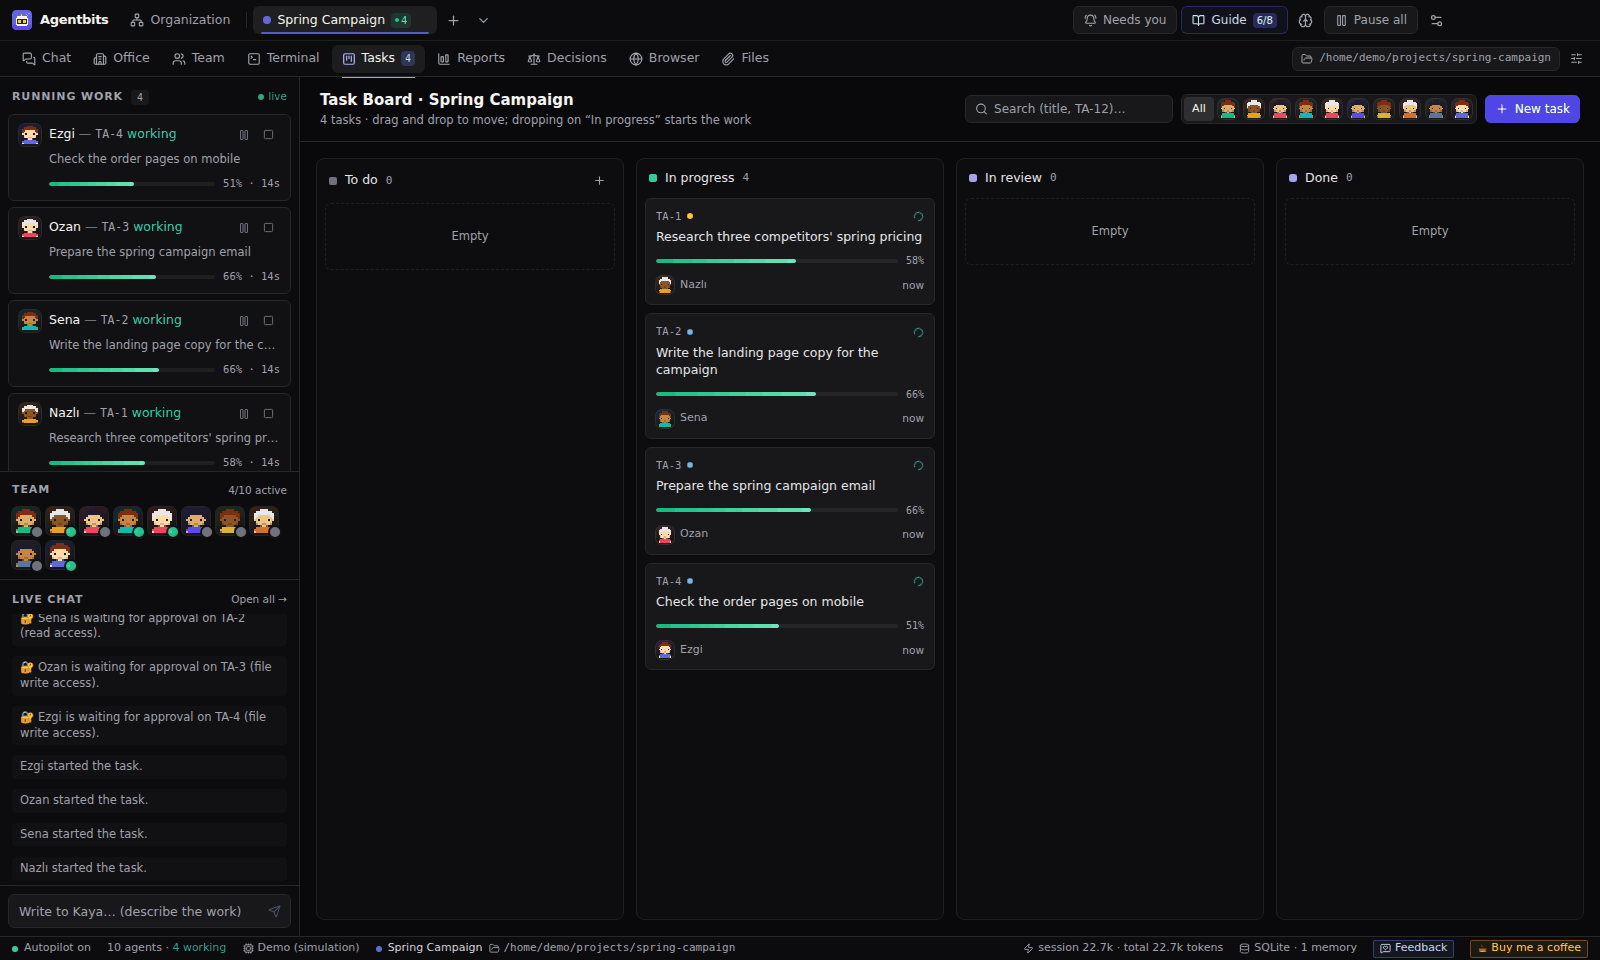
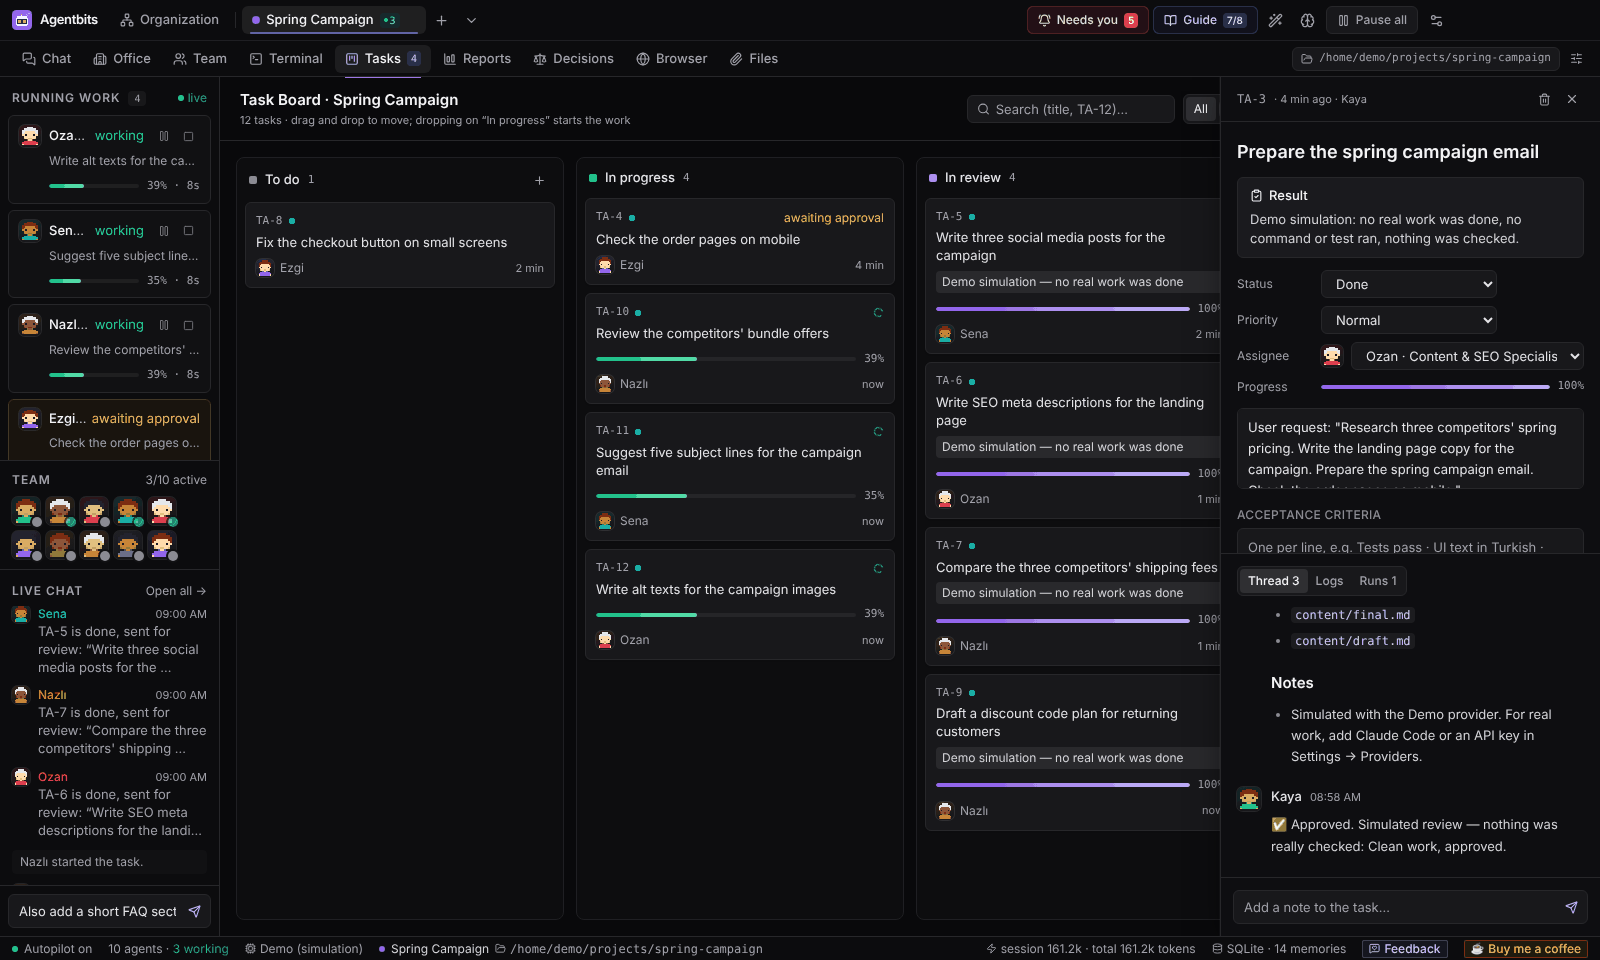
Screenshots retaken with v0.8.0 (EN + TR); README captions match them

diff --git a/CLAUDE.md b/CLAUDE.md
@@ -113,7 +113,7 @@ Demo sağlayıcı iş türüne göre simülasyon (`shared/demoKind.ts`), paket s
 - **2026-10-19 Paket 2 (dürüst Demo + ilk işe yol; sürüm artırılmadı, commit yok)**: Demo hiçbir araç çağırmaz (sahibin kararı; yeni ayar yok), rapor / log / lider notu / kart / ayrıntı çalışma ve incelemeyi ayrı etiketler (`state.simulatedWork` / `simulatedReview`), kısa iş emri görevdir (`demoIsWork`), bölme `demoParts` (dosya adı / sürüm / URL bölünmez); şablon proje içinden açılınca işaretli "Bu projeye ekle" (`templates:instantiate` `projectId`, store `templateFor`), sohbet boş durumu `team / empty / off`, sağlayıcı formunda "Demo ile dene". Test `tests/e2e/firstRun.e2e.ts` (7 adım, 4 çalışan/lider kombinasyonu dahil). Site Demo metni düzeltildi, yayınlanmadı. Sahip onayladı.
 - **2026-10-19 Paket 3 (günlük kullanım; sürüm artırılmadı, commit yok)**: kalıcı taslak (migration v22 `message_drafts`, `lib/drafts.ts`, `useAttachments(pid, channel)` taslak modu — ekler kanala ait, çıkınca silinmez, silinen ek "artık yok"), `useStickToBottom` + "Yeni mesajlar" (sohbet, görev akışı, sol panel), görev düzenleme / not / hızlı mesaj hataları görünür, onay bekleyen iş üç ekranda "henüz başlamadı". Test `tests/e2e/drafts.e2e.ts` + UI düzeneği. Sahibin incelemesindeki 3 yarış düzeltildi (gönderim `draftSnapshot`/`clearSent` ile başladığı anahtar + sürüme bağlı; `att.clear()` kaldırıldı; açılış listesi birleştirilir) + test sırasında bulunan "ilk açılışta ek silme"; tekrar kontrolde 2 kayıp daha (ABA sürüm, yükleme öncesi kör ek listesi) kapandı, testler depoda (`npm run test:renderer`, `tests/renderer/`). Sahip onayladı.
 - **2026-10-19 Paket 4 (sonuç ve doğrulama; sürüm artırılmadı, commit yok)**: `core/evidence.ts` (araç kaydından komut ✓/✗/?, yazılan dosya, retler; yalnız Claude Code kayıt verir, diğerleri "bilinmiyor"), lider istemine kanıt bölümü + sınırlı diff, `tasks:result` + görev ayrıntısında "Sonuç" kutusu, yarış istemine B'nin düzenlenmiş girdileri (§8 kapandı). Test `tests/e2e/result.e2e.ts`. Sahibin incelemesi (3 bulgu) kapandı: yazma sonucuyla eşleşir, kanıt tüm kayıttan + tam sayım + korunan hatalar, yarışta B'nin incelemesi asıl görevdeki tek kayıttan; tekrar kontrolde dosya başına yazıldı/son deneme ayrımı ve listeden bağımsız sayımlar. Sahip onayladı (ifade: "Dosya araçlarıyla başarılı yazma kaydı yok").
-- **2026-10-19 Paket 5A (erişilebilirlik + dar pencere; sürüm artırılmadı, commit yok)**: `components/common/Layer.ts` (katman yığını, Escape en üstte, odak dönüşü, odak tuzağı) → Modal / Ayarlar / açılır menüler; `:focus-visible`; `Sidebar` `useFolded` + `Rail` (içerik < 988 px → ikon şeridi, panel içeriğin üstünde); pano sütunları ≥ 230 px (üst üste binme düzeldi); `dedupeFeed`, `shownStatus`; zinc-600/700 → 500. Test `tests/renderer/feed.test.ts` + UI düzeneği. 2026-10-20 ek: Kılavuz pano yanında sığmıyorsa üstte diyalog (`lib/layout.ts` `fitLayout`, `tests/renderer/layout.test.ts`); 960 CSS px altında üst çubuk yalnız ikon; `zinc-500` = `#8b8b93` (tailwind.config), alan odak / hata kenarları ≥ 3:1; ölçülü kontrast denetimi 21 ekran TR/EN 0 hata. Tip ölçeği 10/11/12/13/15/18/22 işlevine göre (kural ARCHITECTURE "Tip ölçeği", test `typeScale.test.ts`); örtüşme denetimi TR/EN 4 boyut temiz. ⏳ %200 proje sekmesi Windows'ta; Electron / ekran okuyucu elle denenmedi — 5A tamamen doğrulanmış değil. İnceleme düzeltmeleri (2026-10-20): canlı akış yalnız `meta.event` ile birleştirir (`sameEvent`), katman yığını z-index sırası (`openLayer`), adsız ikon düğmeleri; testler `feed`/`layer`. **5B (2026-10-20) sistem bildirimleri:** tek giriş `main/notify.ts` `notifyUser` (yeni olay kaynağı → oradan; `hold()` üçüncü parametresi zorunlu: kullanıcı kaynaklıysa `null`), zamanlama `shared/notify.ts`, tıklama `lib/notifyNav.ts`; testler `notify.test.ts`, `e2e/notify.e2e.ts`, `renderer/notifyNav.test.ts`. ⏳ gerçek Windows denemesi (liste: CHANGELOG 5B "Bilinen / açık"). Kararlar `docs/UX_REVIEW_2026-10-19.md` §8'de. **Paket 1A–5B v0.8.0 olarak yayımlandı (2026-10-20, etiket e930146; site 4c39bb3).** ⏳ Ekran görüntüleri v0.4.0'dan (README notunda yazılı, yeniden çekilecek).
+- **2026-10-19 Paket 5A (erişilebilirlik + dar pencere; sürüm artırılmadı, commit yok)**: `components/common/Layer.ts` (katman yığını, Escape en üstte, odak dönüşü, odak tuzağı) → Modal / Ayarlar / açılır menüler; `:focus-visible`; `Sidebar` `useFolded` + `Rail` (içerik < 988 px → ikon şeridi, panel içeriğin üstünde); pano sütunları ≥ 230 px (üst üste binme düzeldi); `dedupeFeed`, `shownStatus`; zinc-600/700 → 500. Test `tests/renderer/feed.test.ts` + UI düzeneği. 2026-10-20 ek: Kılavuz pano yanında sığmıyorsa üstte diyalog (`lib/layout.ts` `fitLayout`, `tests/renderer/layout.test.ts`); 960 CSS px altında üst çubuk yalnız ikon; `zinc-500` = `#8b8b93` (tailwind.config), alan odak / hata kenarları ≥ 3:1; ölçülü kontrast denetimi 21 ekran TR/EN 0 hata. Tip ölçeği 10/11/12/13/15/18/22 işlevine göre (kural ARCHITECTURE "Tip ölçeği", test `typeScale.test.ts`); örtüşme denetimi TR/EN 4 boyut temiz. ⏳ %200 proje sekmesi Windows'ta; Electron / ekran okuyucu elle denenmedi — 5A tamamen doğrulanmış değil. İnceleme düzeltmeleri (2026-10-20): canlı akış yalnız `meta.event` ile birleştirir (`sameEvent`), katman yığını z-index sırası (`openLayer`), adsız ikon düğmeleri; testler `feed`/`layer`. **5B (2026-10-20) sistem bildirimleri:** tek giriş `main/notify.ts` `notifyUser` (yeni olay kaynağı → oradan; `hold()` üçüncü parametresi zorunlu: kullanıcı kaynaklıysa `null`), zamanlama `shared/notify.ts`, tıklama `lib/notifyNav.ts`; testler `notify.test.ts`, `e2e/notify.e2e.ts`, `renderer/notifyNav.test.ts`. ⏳ gerçek Windows denemesi (liste: CHANGELOG 5B "Bilinen / açık"). Kararlar `docs/UX_REVIEW_2026-10-19.md` §8'de. **Paket 1A–5B v0.8.0 olarak yayımlandı (2026-10-20, etiket e930146; site 4c39bb3).** Ekran görüntüleri v0.8.0 ile yeniden çekildi (2026-10-20, Demo).
 - **2026-10-19 ürün deneyimi incelemesi** → `docs/UX_REVIEW_2026-10-19.md` (kod değişmedi). ⏳ Sahip ilk çalışma paketini (şablon → proje ataması, sohbet boş durumu, CLI yoksa Demo, koşullu kaydırma, inceleme hatası görünür) onaylayınca geliştirme başlar.
 - `docs/SECURITY.md`'deki 🟡 / ⏳ maddeler (ör. büyük veride UI sayfalama) ve `docs/FEATURES.md` "Bilinen sorunlar".
 

diff --git a/README.tr.md b/README.tr.md
@@ -144,13 +144,13 @@ senaryonun neye ihtiyaç duyduğunu söyler.
 
 | | |
 |---|---|
-| **Liderle sohbet.** İstek dört göreve ayrılır, her biri bir uzmana atanır. <br><img src="docs/screenshots/tr/chat.png" alt="Proje sohbeti: lider isteği dört göreve böler"> | **Görev panosu.** Ekip çalıştıkça görevler Yapılacak'tan Bitti'ye ilerler. <br><img src="docs/screenshots/tr/tasks.png" alt="Devam eden görevlerin olduğu Kanban panosu"> |
-| **Ajan terminalleri.** Her ajana ne sorulduğu ve ne yaptığı. <br><img src="docs/screenshots/tr/terminal.png" alt="Birkaç ajanın dökümünü gösteren ajan terminalleri"> | **Organizasyon.** Şirket, departman ve takımlar; her birinin lideri var. <br><img src="docs/screenshots/tr/org-chart.png" alt="Beş takımlı bir e-ticaret şirketinin organizasyon şeması"> |
+| **Liderle sohbet.** İstek dört göreve ayrılır, her biri bir uzmana atanır. <br><img src="docs/screenshots/tr/chat.png" alt="Proje sohbeti: lider isteği dört göreve böler"> | **Görev panosu.** Ekip çalıştıkça görevler Yapılacak'tan Bitti'ye ilerler. <br><img src="docs/screenshots/tr/tasks.png" alt="Görev panosu: devam eden (biri onay bekliyor) ve incelemedeki işler; biten bir görevin ayrıntısı ve Sonuç kutusu açık"> |
+| **Ajan terminalleri.** Her ajana ne sorulduğu ve ne yaptığı. <br><img src="docs/screenshots/tr/terminal.png" alt="Birkaç ajanın dökümünü gösteren ajan terminalleri (simüle edilmiş adımlar)"> | **Organizasyon.** Şirket, departman ve takımlar; her birinin lideri var. <br><img src="docs/screenshots/tr/org-chart.png" alt="Beş takımlı bir e-ticaret şirketinin organizasyon şeması"> |
 | **Raporlar.** Tamamlanan işler, başarı oranı, ajan başına üretim ve token kullanımı. <br><img src="docs/screenshots/tr/reports.png" alt="Görev raporları ve ajan performansıyla Raporlar sayfası"> | **Bağlantılar.** Zorunlu salt-okunur kullanıcıyla, ajan bazında veritabanı ve sunucu erişimi. <br><img src="docs/screenshots/tr/connections.png" alt="Staging PostgreSQL veritabanı için bağlantı ayarları"> |
-| **Hafıza.** "Seni tanıyorum" profili ve hatıraların konulara, görevlere ve kararlara bağlandığı graf. <br><img src="docs/screenshots/tr/memory.png" alt="Organizasyon → Hafıza: solda profil, sağda hafıza grafı"> | |
+| **Hafıza.** "Seni tanıyorum" profili ve hatıraları görevlere ve ajanlara bağlayan graf. <br><img src="docs/screenshots/tr/memory.png" alt="Organizasyon → Hafıza: solda profil, sağda hafıza grafı"> | |
 
-*Ekran görüntüleri Demo modunda (v0.4.0) örnek verilerle alındı. Demo işi yalnızca taklit eder, hiçbir araç
-çağırmaz; v0.8.0'dan beri taklit edilen her adım "simülasyon" diye etiketlenir.*
+*Ekran görüntüleri Demo modunda (v0.8.0) örnek verilerle alındı. Demo işi yalnızca taklit eder, hiçbir araç
+çağırmaz; taklit edilen her adım "simülasyon" diye etiketlenir.*
 
 ## Desteklenen yapay zeka sağlayıcıları
 

diff --git a/README.md b/README.md
@@ -142,13 +142,13 @@ scenario needs.
 
 | | |
 |---|---|
-| **Chat with the lead.** The request becomes four tasks, each assigned to a specialist. <br><img src="docs/screenshots/chat.png" alt="Project chat: the lead splits a request into four tasks"> | **Task board.** Tasks move from To do to Done as the team works. <br><img src="docs/screenshots/tasks.png" alt="Kanban board with four tasks in progress"> |
-| **Agent terminals.** What each agent was asked and what it did. <br><img src="docs/screenshots/terminal.png" alt="Agent terminals showing transcripts of several agents"> | **Organization.** Companies, departments and teams, each with a lead. <br><img src="docs/screenshots/org-chart.png" alt="Organization chart of an e-commerce company with five teams"> |
+| **Chat with the lead.** The request becomes four tasks, each assigned to a specialist. <br><img src="docs/screenshots/chat.png" alt="Project chat: the lead splits a request into four tasks"> | **Task board.** Tasks move from To do to Done as the team works. <br><img src="docs/screenshots/tasks.png" alt="Task board: work in progress (one task awaiting approval) and in review, with a finished task's details and its Result box open"> |
+| **Agent terminals.** What each agent was asked and what it did. <br><img src="docs/screenshots/terminal.png" alt="Agent terminals showing transcripts of several agents (simulated steps)"> | **Organization.** Companies, departments and teams, each with a lead. <br><img src="docs/screenshots/org-chart.png" alt="Organization chart of an e-commerce company with five teams"> |
 | **Reports.** Completed work, success rate, per-agent output and token usage. <br><img src="docs/screenshots/reports.png" alt="Reports page with task reports and agent performance"> | **Connections.** Per-agent database and server access with a required read-only user. <br><img src="docs/screenshots/connections.png" alt="Connection settings for a staging PostgreSQL database"> |
-| **Memory.** The "Knows you" profile and the graph linking memories to topics, tasks and decisions. <br><img src="docs/screenshots/memory.png" alt="Organization → Memory: the profile on the left, the memory graph on the right"> | |
+| **Memory.** The "Knows you" profile and the graph linking memories to tasks and agents. <br><img src="docs/screenshots/memory.png" alt="Organization → Memory: the profile on the left, the memory graph on the right"> | |
 
-*Screenshots were taken in Demo mode (v0.4.0) with example data. Demo only simulates the work: it calls no tools, and
-since v0.8.0 every simulated step is labelled as a simulation.*
+*Screenshots were taken in Demo mode (v0.8.0) with example data. Demo only simulates the work: it calls no tools, and
+every simulated step is labelled as a simulation.*
 
 ## Supported AI providers
 
